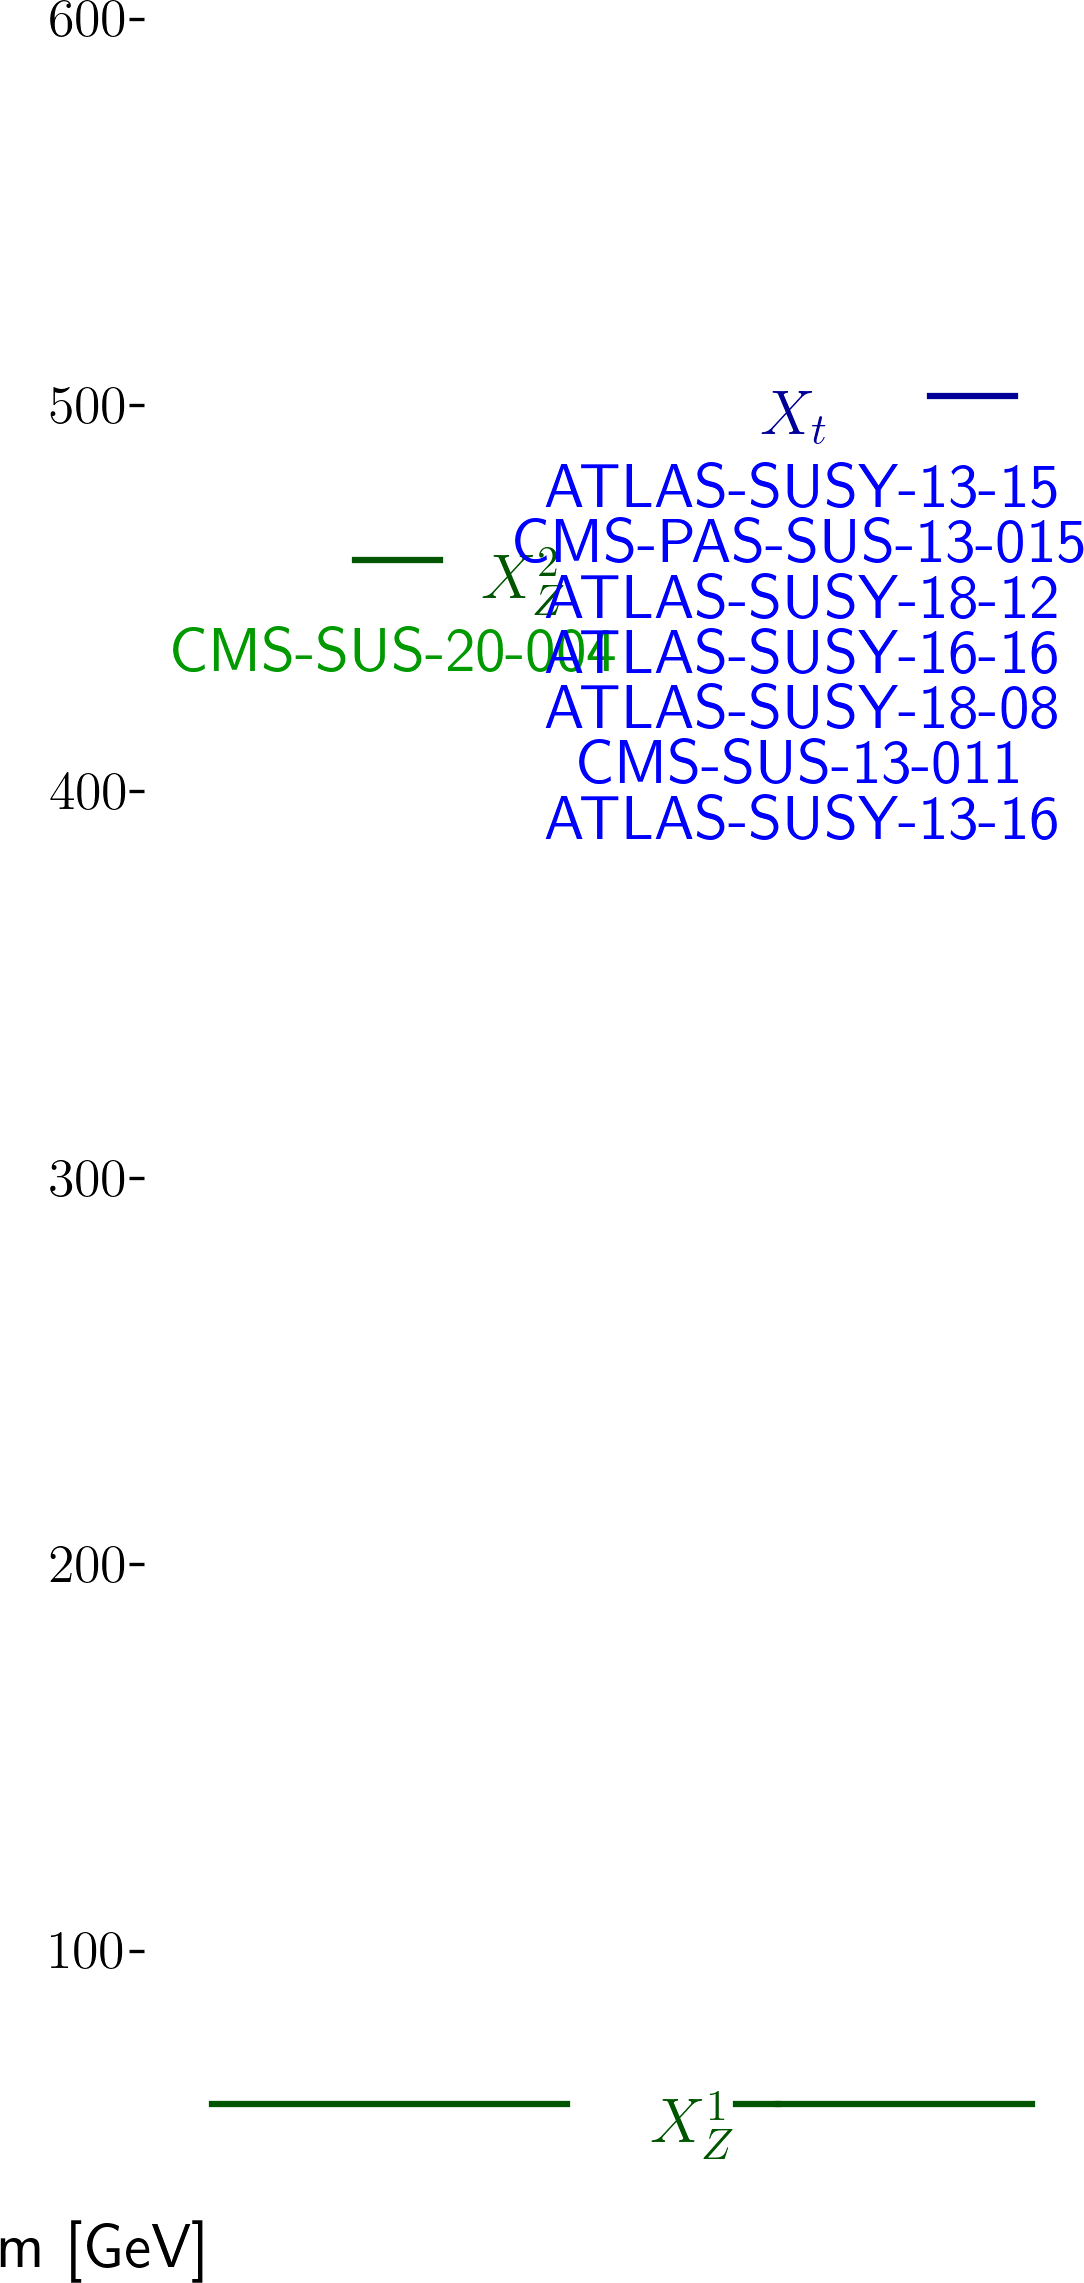
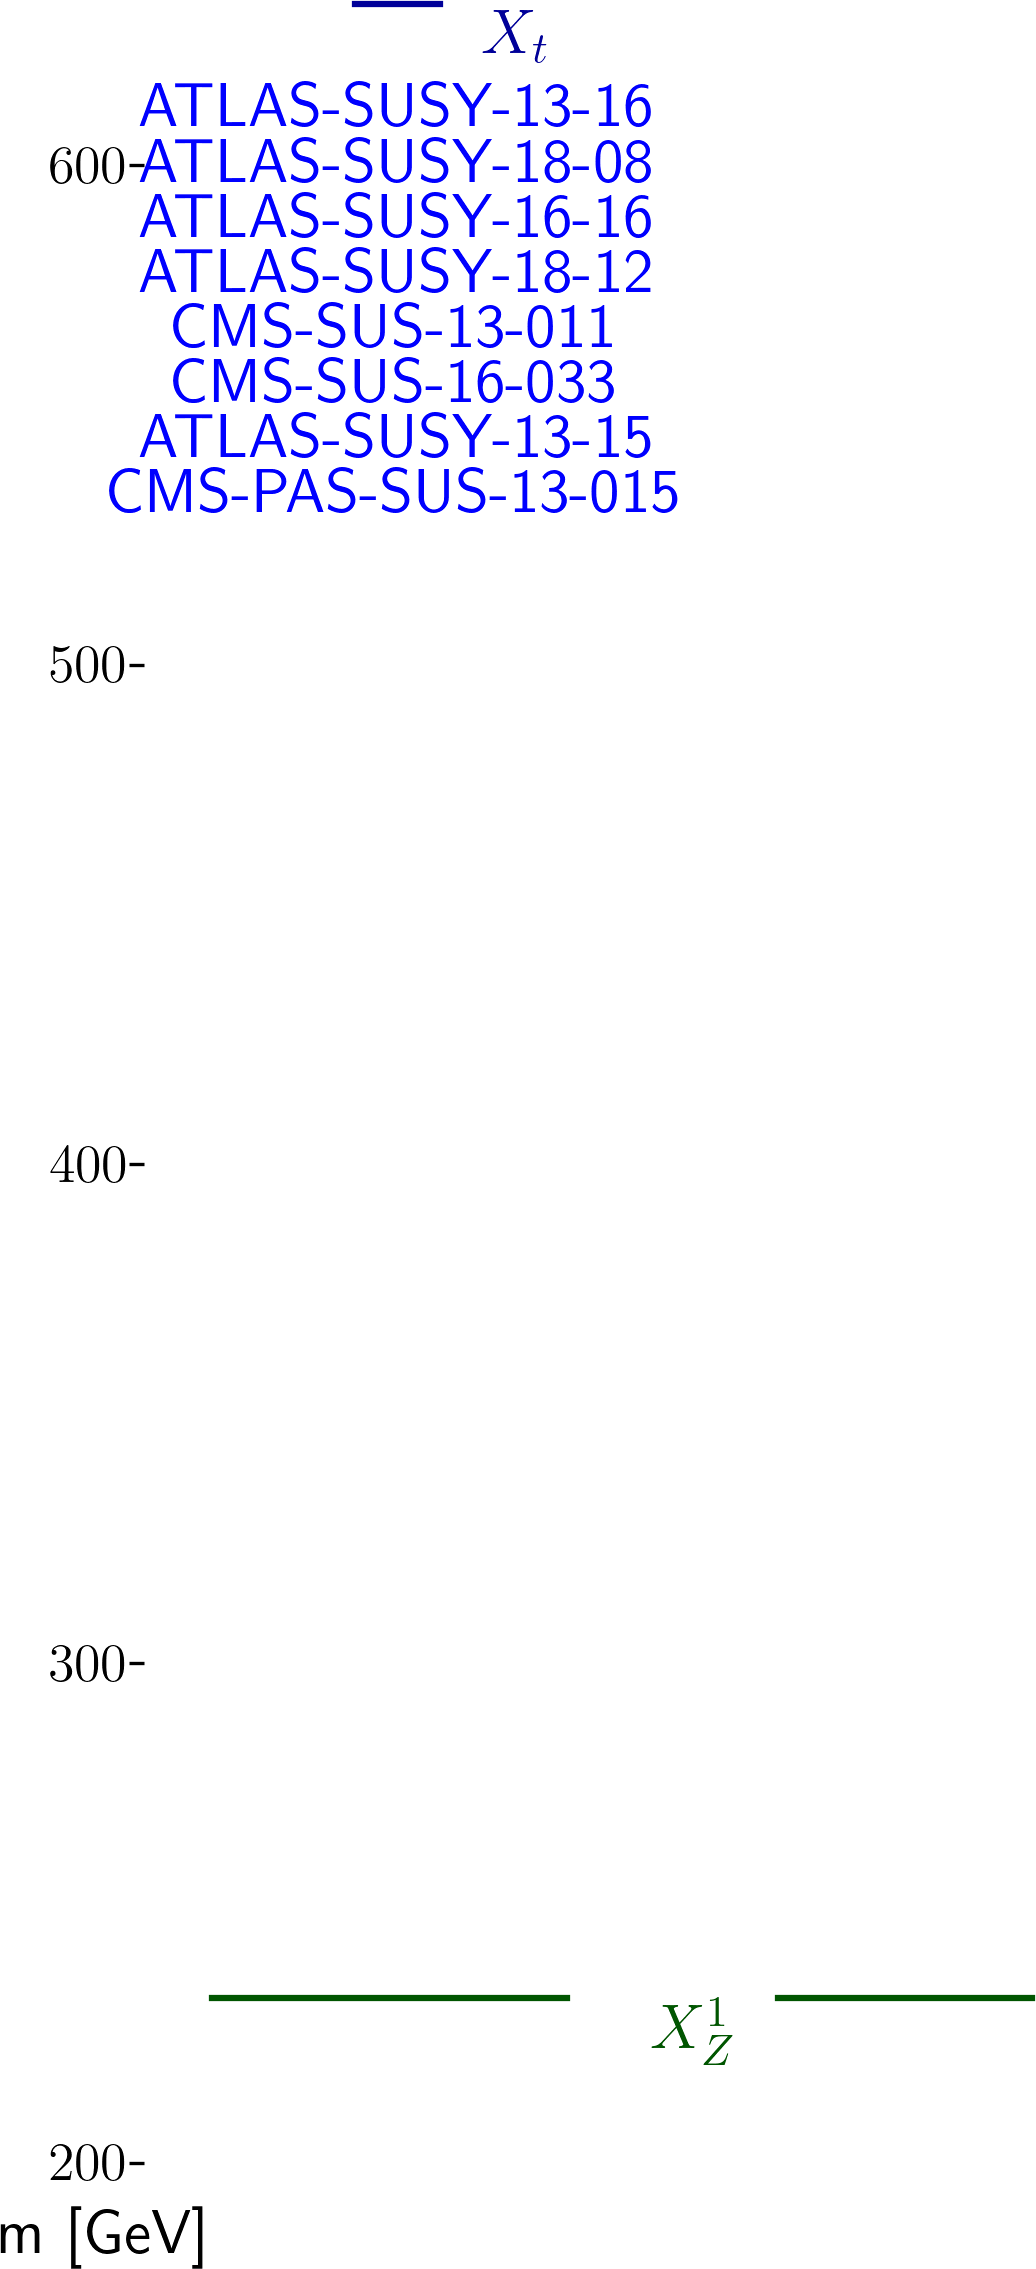
automated update by plotHiscore.py to hadrons_230:     K=4.038 Z=2.51 walkerid=0

diff --git a/protomodels/hadrons_230/index.html b/protomodels/hadrons_230/index.html
@@ -1,23 +1,23 @@
 <html>
 <body>
 <center>
-<table><td><h1>Current best protomodel: <i>K</i>=9.26, <i>Z</i>=3.58</h1><td><img height=60px src=https://smodels.github.io//protomodels/logos/protomodel_lego.png></table>
+<table><td><h1>Current best protomodel: <i>K</i>=4.04, <i>Z</i>=2.51</h1><td><img height=60px src=https://smodels.github.io//protomodels/logos/protomodel_lego.png></table>
 </center>
-<b><a href=./hiscore.slha>ProtoModel</a> <a href=./pmodel.dict>(dict)</a> produced with <a href=https://smodels.github.io//docs/Validation230>database v2.3.0</a>, combination strategy <a href=./matrix.png>aggressive</a> in walker 244 step 424.</b>  SSM plots for: <a href=./ssm_-1000006_1000006.png?116053361>(-1000006,1000006)</a><br>
+<b><a href=./hiscore.slha>ProtoModel</a> <a href=./pmodel.dict>(dict)</a> produced with <a href=https://smodels.github.io//docs/Validation230>database v2.3.0</a>, combination strategy <a href=./matrix.png>aggressive</a> in walker 0 step 0.</b>  SSM plots for: <a href=./ssm_-1000006_1000006.png?116059422>(-1000006,1000006)</a><br>
 <table width=80%>
 <tr><td>
-<br><b>38 predictions available. Highest r values are:</b><br><ul>
-<li><a href=http://cms-results.web.cern.ch/cms-results/public-results/publications/SUS-20-002/index.html>CMS-SUS-20-002</a>:ul:T2tt r=1.30, r<sub>exp</sub>=1.29<br>
-<li><a href=http://cms-results.web.cern.ch/cms-results/public-results/publications/SUS-19-010/index.html>CMS-SUS-19-010</a>:ul:T2tt r=0.88, r<sub>exp</sub>=0.89<br>
-<li><a href=http://cms-results.web.cern.ch/cms-results/public-results/publications/SUS-19-009/index.html>CMS-SUS-19-009</a>:ul:T2tt r=0.86, r<sub>exp</sub>=0.88<br>
-<li><a href=http://cms-results.web.cern.ch/cms-results/public-results/publications/SUS-19-006/index.html>CMS-SUS-19-006-agg</a>:comb:T2tt r=0.70, r<sub>exp</sub>=0.43<br>
-<li><a href=http://cms-results.web.cern.ch/cms-results/public-results/publications/SUS-19-006/index.html>CMS-SUS-19-006</a>:ul:T2tt r=0.64, r<sub>exp</sub>=0.46<br>
+<br><b>36 predictions available. Highest r values are:</b><br><ul>
+<li><a href=http://cms-results.web.cern.ch/cms-results/public-results/publications/SUS-20-002/index.html>CMS-SUS-20-002</a>:ul:T2tt r=1.30, r<sub>exp</sub>=1.26<br>
+<li><a href=http://cms-results.web.cern.ch/cms-results/public-results/publications/SUS-19-010/index.html>CMS-SUS-19-010</a>:ul:T2tt r=0.95, r<sub>exp</sub>=1.01<br>
+<li><a href=http://cms-results.web.cern.ch/cms-results/public-results/publications/SUS-19-009/index.html>CMS-SUS-19-009</a>:ul:T2tt r=0.90, r<sub>exp</sub>=0.85<br>
+<li><a href=http://cms-results.web.cern.ch/cms-results/public-results/publications/SUS-19-006/index.html>CMS-SUS-19-006-agg</a>:comb:T2tt r=0.86, r<sub>exp</sub>=0.46<br>
+<li><a href=http://cms-results.web.cern.ch/cms-results/public-results/publications/SUS-19-006/index.html>CMS-SUS-19-006</a>:ul:T2tt r=0.83, r<sub>exp</sub>=0.50<br>
 </ul>
-<td><img width=600px src=./texdoc.png?1709053361>
-<br><font size=-1>Last updated: Tue Feb 27 18:02:41 2024</font>
+<td><img width=600px src=./texdoc.png?1709059422>
+<br><font size=-1>Last updated: Tue Feb 27 19:43:42 2024</font>
 </table><table style="width:80%">
-<td width=45%><img height=580px src=./ruler.png?1709053361><td width=55%><img height=340px src=./decays.png?1709053361>
-<font size=-3><iframe type="text/html" height="270px" width="100%s" frameborder="0" src="./rawnumbers.html?1709053361"></iframe></font>
+<td width=45%><img height=580px src=./ruler.png?1709059422><td width=55%><img height=340px src=./decays.png?1709059422>
+<font size=-3><iframe type="text/html" height="270px" width="100%s" frameborder="0" src="./rawnumbers.html?1709059422"></iframe></font>
 </table>
 </body>
 </html>

diff --git a/protomodels/hadrons_230/rawnumbers.html b/protomodels/hadrons_230/rawnumbers.html
@@ -8,5 +8,5 @@
 <tr><td><a href=https://atlas.web.cern.ch/Atlas/GROUPS/PHYSICS/PAPERS/SUSY-2018-12/>ATLAS-SUSY-2018-12</a></td><td>em</td> <td>SRBTT</td><td>T2tt</td><td>67</td><td>46 +/- 7</td><td style="text-align:right">2.2 &sigma;</td><td style="text-align:right">X<sub>t</sub></td></tr>
 <tr><td><a href=https://twiki.cern.ch/twiki/bin/view/CMSPublic/PhysicsResultsSUS13015>CMS-PAS-SUS-13-015</a></td><td>em</td> <td>pTmiss350_Nb2</td><td>T2tt</td><td>15</td><td>8.6 +/- 7.1</td><td style="text-align:right">0.8 &sigma;</td><td style="text-align:right">X<sub>t</sub></td></tr>
 <tr><td><a href=https://twiki.cern.ch/twiki/bin/view/CMSPublic/PhysicsResultsSUS13011>CMS-SUS-13-011</a></td><td>em</td> <td>LM150</td><td>T2tt</td><td>227</td><td>251 +/- 50</td><td style="text-align:right">-0.5 &sigma;</td><td style="text-align:right">X<sub>t</sub></td></tr>
-<tr><td><a href=http://cms-results.web.cern.ch/cms-results/public-results/publications/SUS-20-004/>CMS-SUS-20-004</a></td><td>comb</td> <td>-</td><td>TChiHH</td><td> 0.2 fb </td><td> 0.1 fb</td><td style="text-align:right">2.2 &sigma;</td><td style="text-align:right">X<sup>2</sup><sub>Z</sub></td></tr>
+<tr><td><a href=http://cms-results.web.cern.ch/cms-results/public-results/publications/SUS-16-033/index.html>CMS-SUS-16-033</a></td><td>em</td> <td>SR2_Njet3_Nb0_H ...</td><td>T2tt</td><td>71</td><td>55.2 +/- 11.5</td><td style="text-align:right">1.2 &sigma;</td><td style="text-align:right">X<sub>t</sub></td></tr>
 </table>
